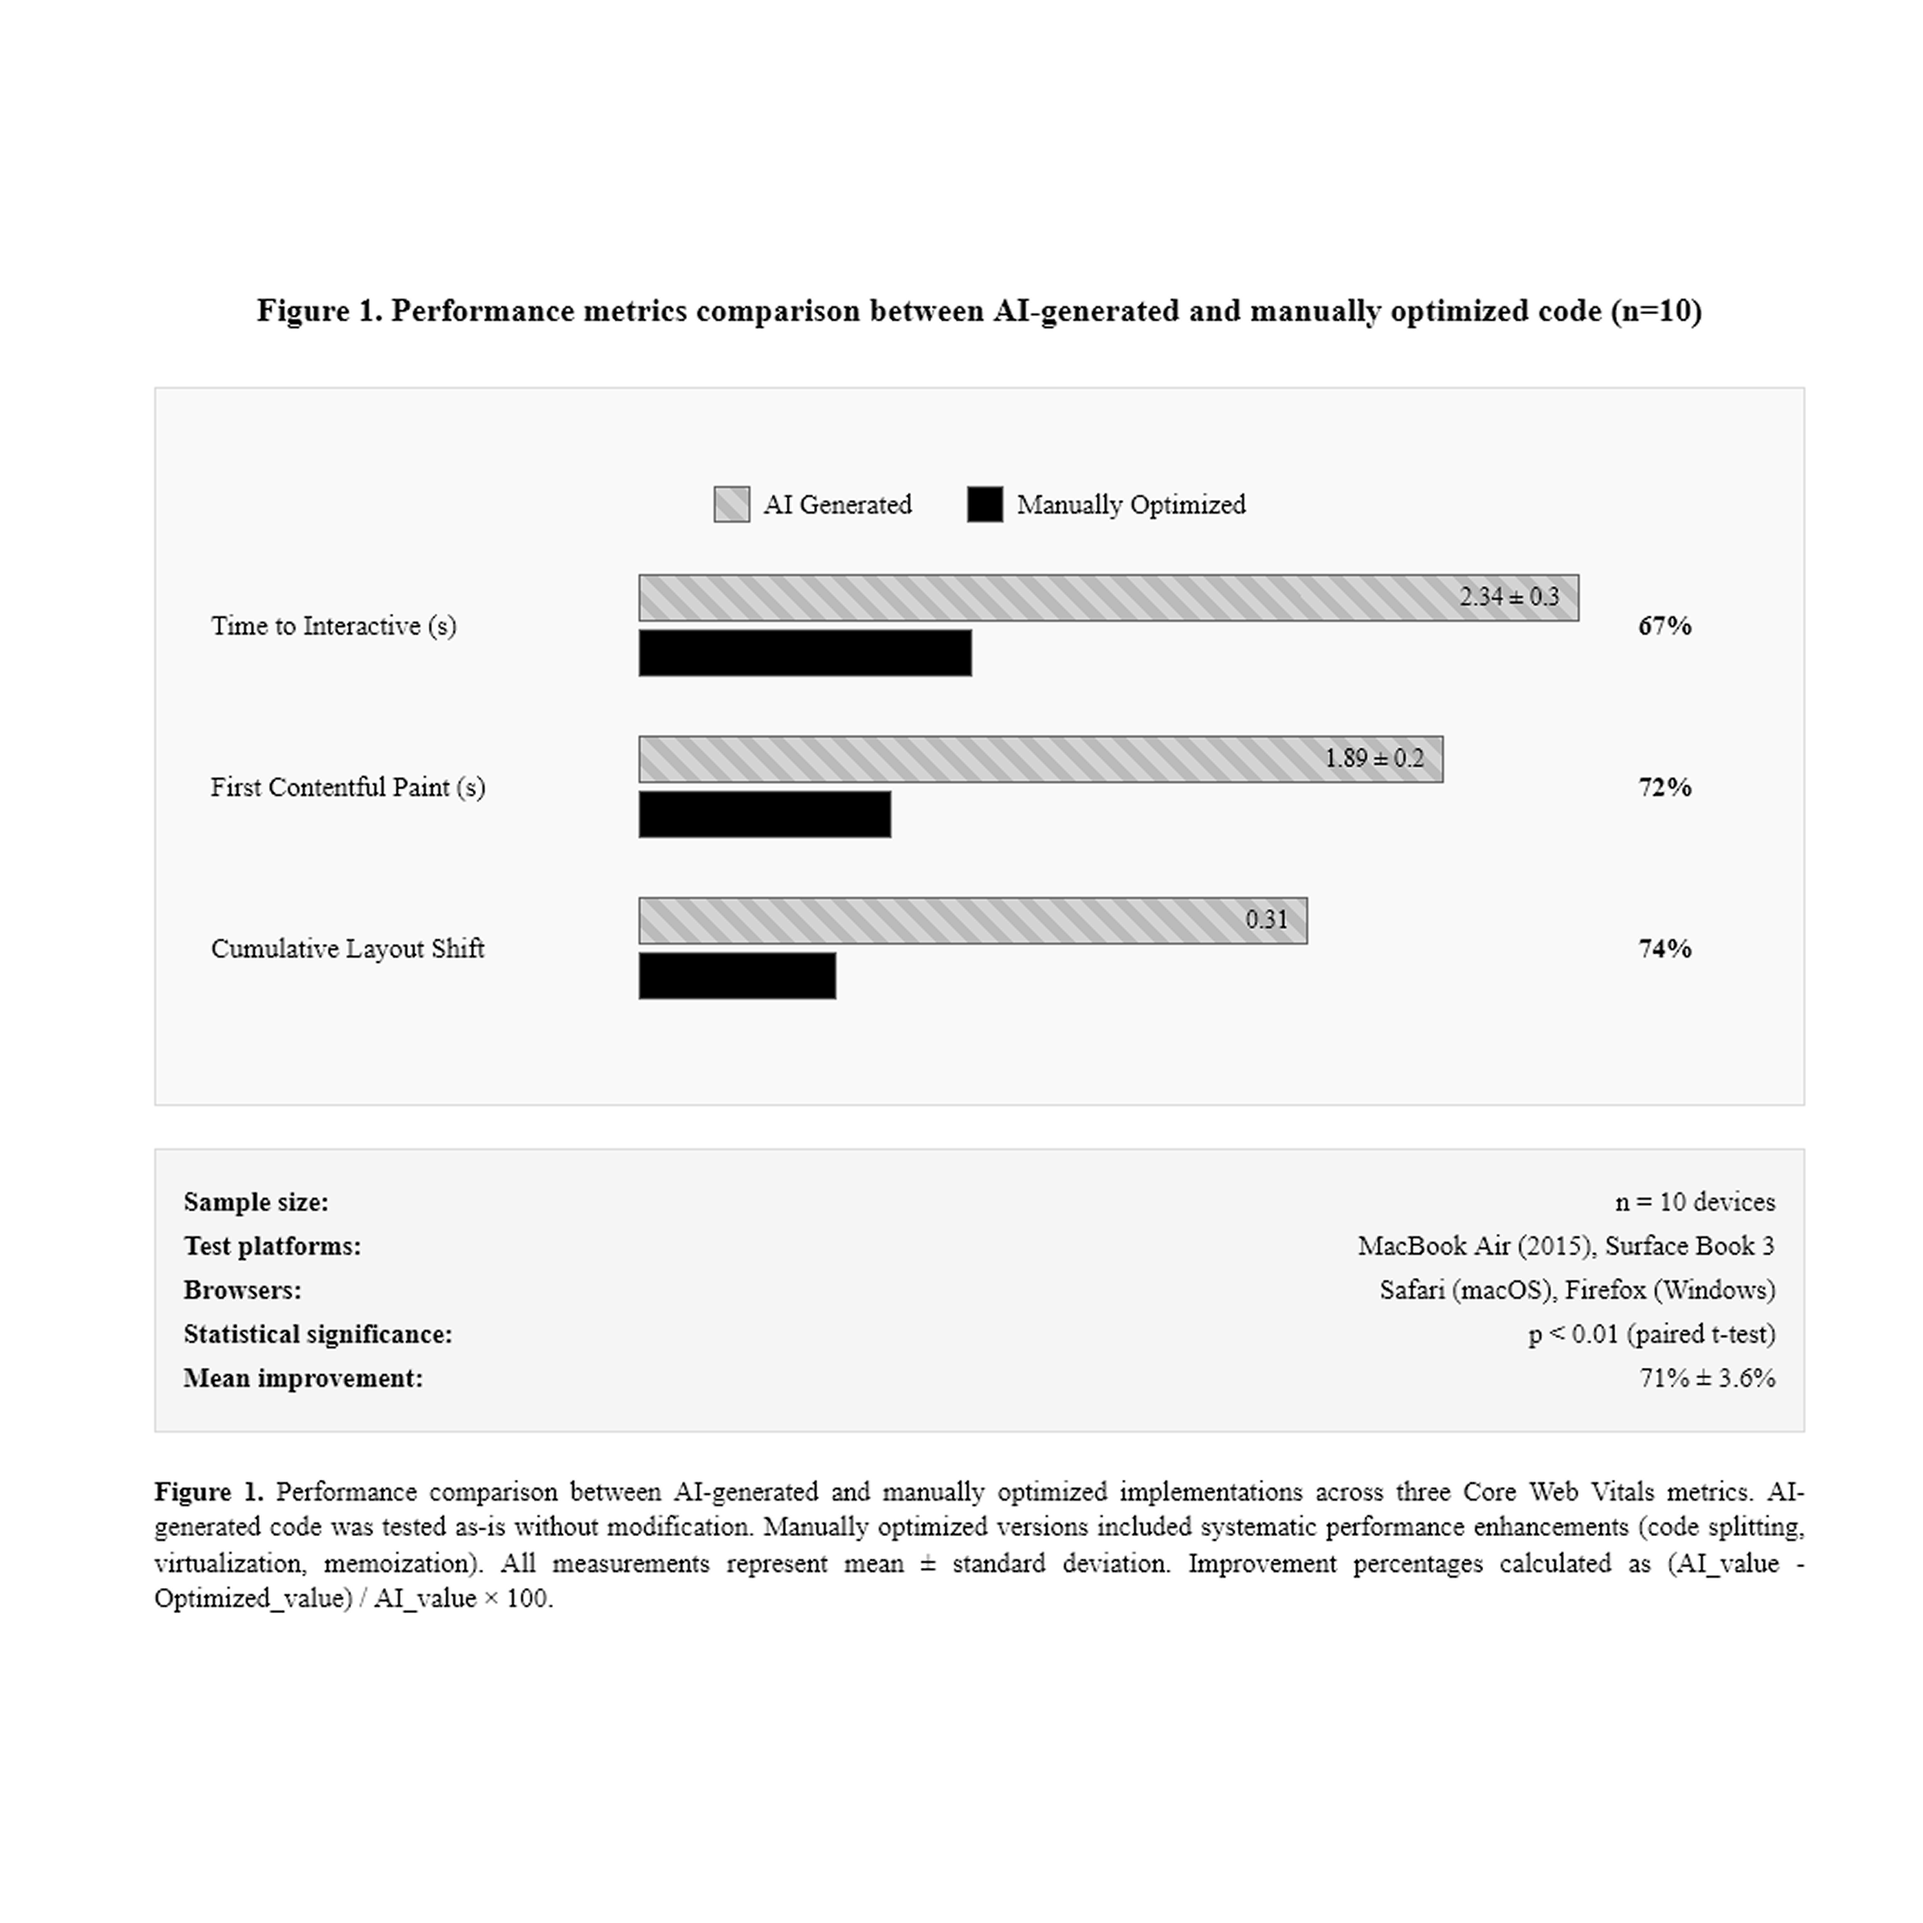
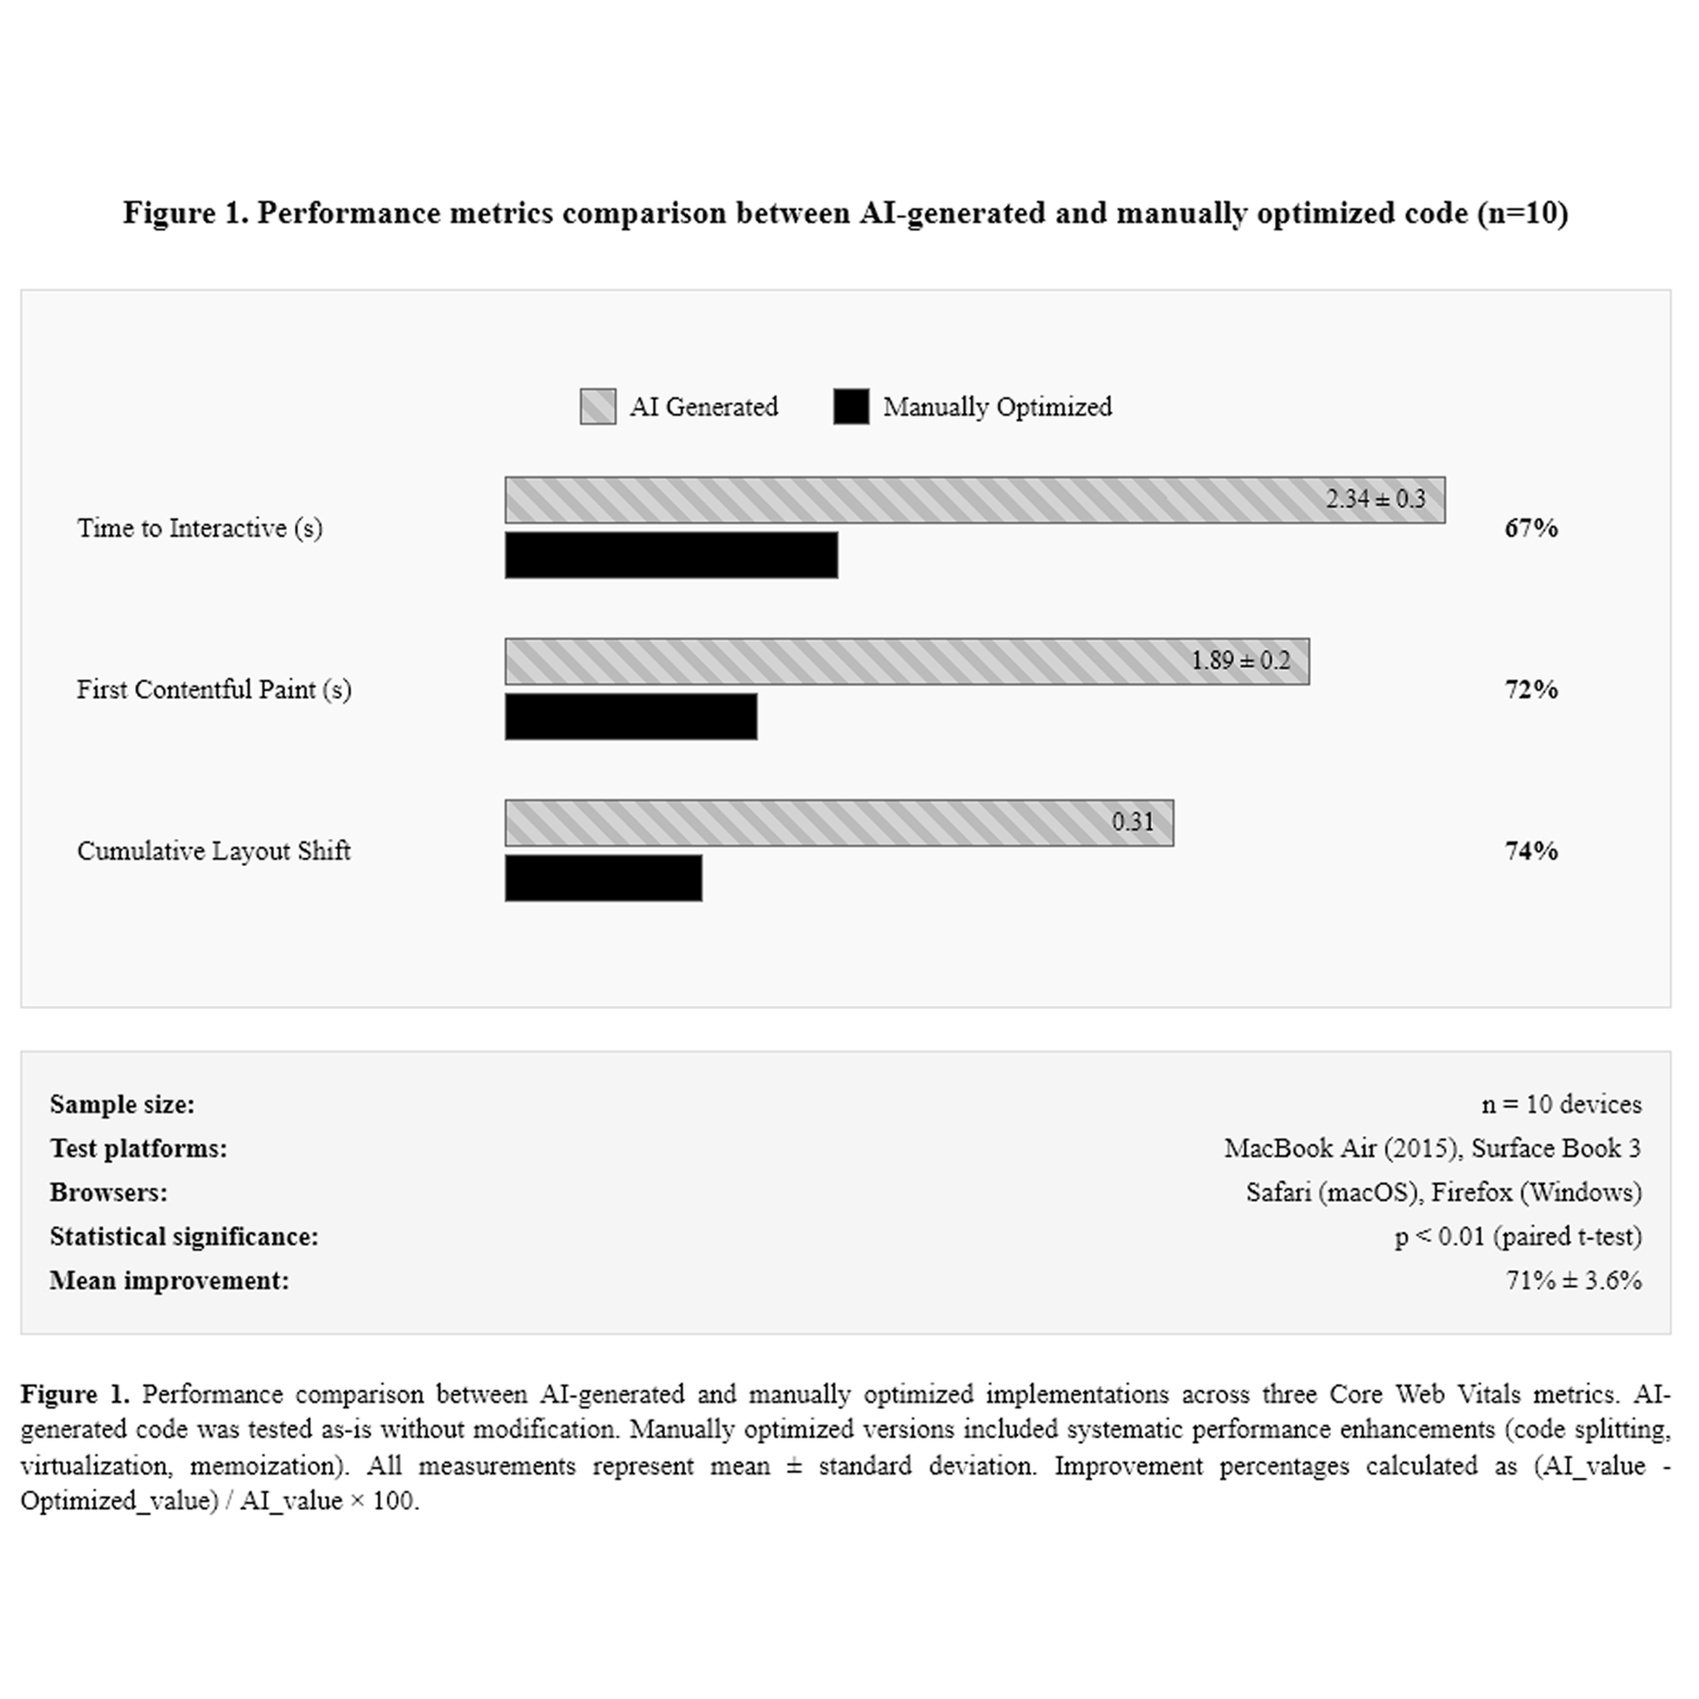
Fix projects

diff --git a/src/App.jsx b/src/App.jsx
@@ -1040,7 +1040,7 @@ const Portfolio = () => {
       category: 'product-design',
       className: 'web-project',
       imageData: '/images/model-pulse.jpg',
-      externalLink: 'https://tanhata.github.io/modelpulse-v2/',
+      externalLink: 'https://docs.google.com/presentation/d/1ePidVWFj8yHKuQ_lr5rFXV7a4K0Pexfv1Bt_5l6igmE/edit?usp=sharing',
       company: 'Stealth Startup',
       year: '2025',
       tags: ['React', 'D3.js']
@@ -1308,7 +1308,7 @@ const Portfolio = () => {
                   marginBottom: '10px',
                   color: currentThemeConfig.text 
                 }}>
-                  Work
+                  Selected Work
                 </h2>
                  
                 <div className="filters">
